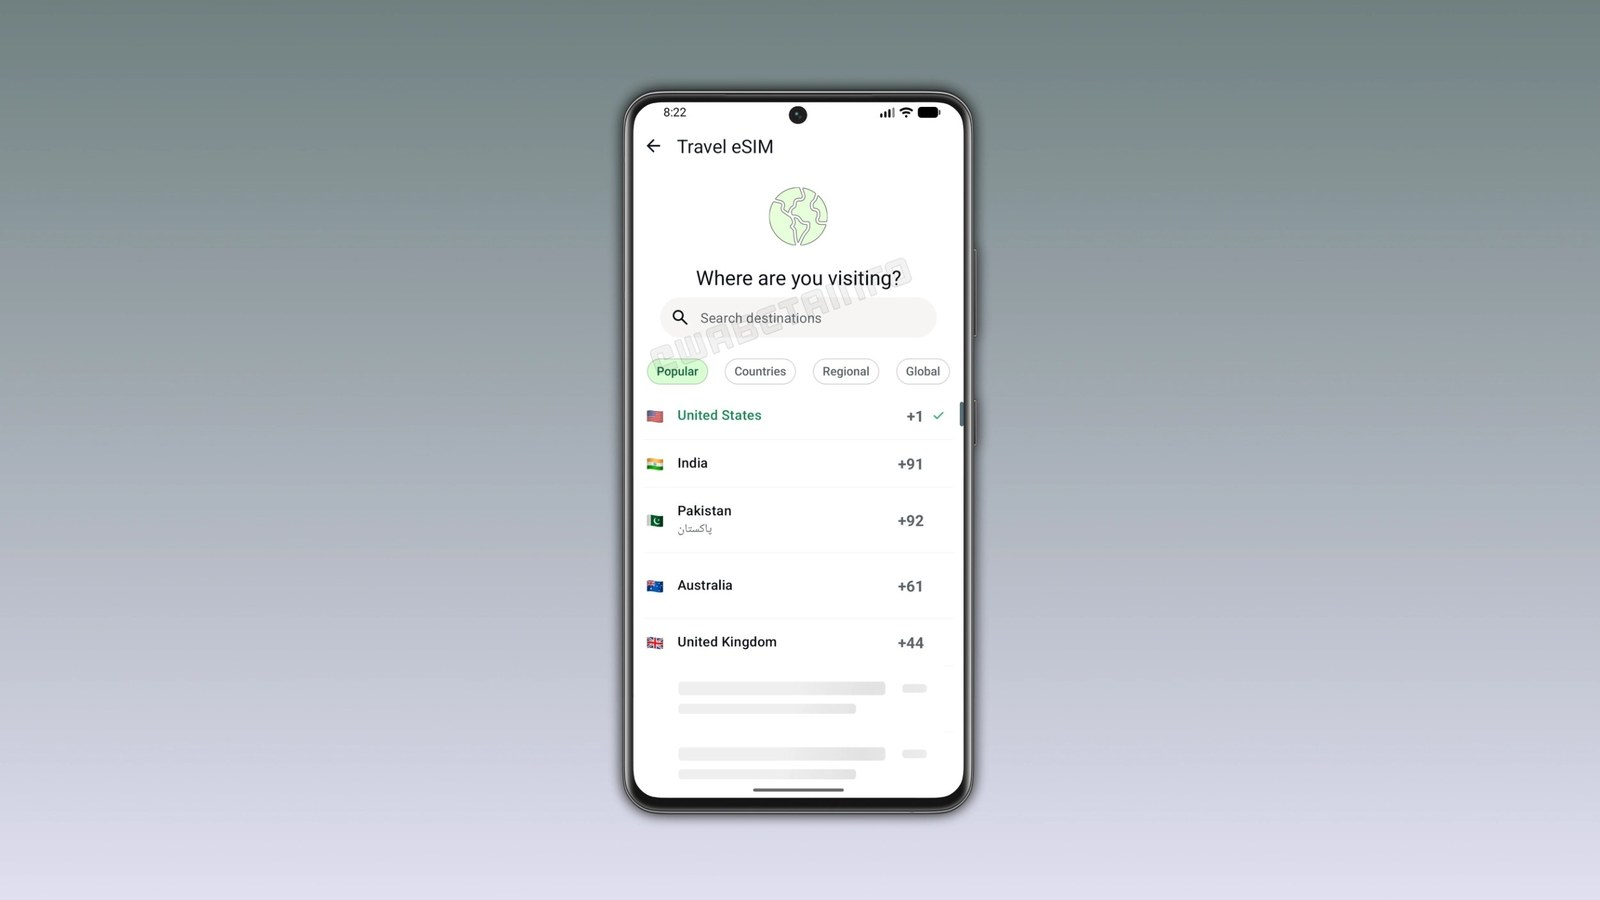
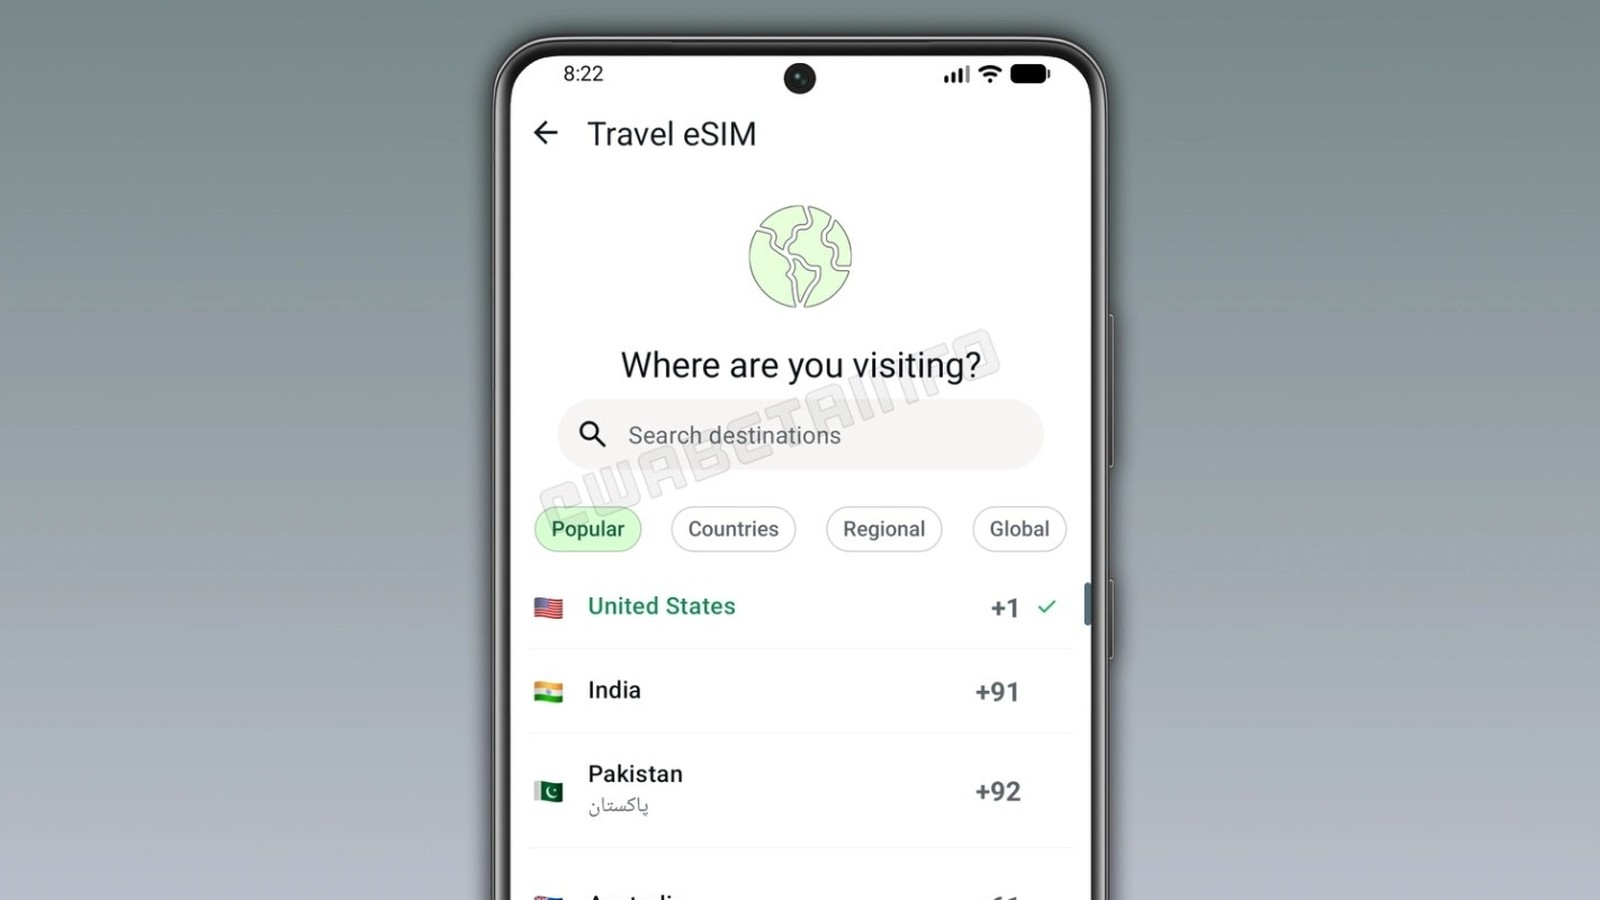
WhatsApp Travel eSIM: zoom thumbnail onto the phone screen so it fills the frame
Claude-Session: https://claude.ai/code/session_01WDEkrMMAL5G33qSVzSdsVG

diff --git a/whatsapp-travel-esim.html b/whatsapp-travel-esim.html
@@ -761,7 +761,7 @@ a.media:hover { text-decoration: none; }
         <p>By <b>DD Desk</b><br><span class="mono mute">26 Nov 2026 &nbsp;·&nbsp; 2 min read</span></p>
       </div>
       <figure class="article__hero">
-        <div class="media"><img src="images/whatsapp-travel-esim.jpg" alt="An Android phone showing a WhatsApp screen titled Travel eSIM, with a globe icon, the question Where are you visiting?, a search bar and a list of countries including India."></div>
+        <div class="media"><img src="images/whatsapp-travel-esim.jpg" alt="The top of an Android phone showing a WhatsApp screen titled Travel eSIM, with a globe icon, the question Where are you visiting?, a search bar, filter chips and a list of countries including India."></div>
         <figcaption class="mono">The Travel eSIM screen in WhatsApp beta for Android. Image: <a href="https://wabetainfo.com/whatsapp-announces-travel-esim-data-plans-on-android-and-ios/" rel="noopener">WABetaInfo</a></figcaption>
       </figure>
       <div class="article__cols3">
